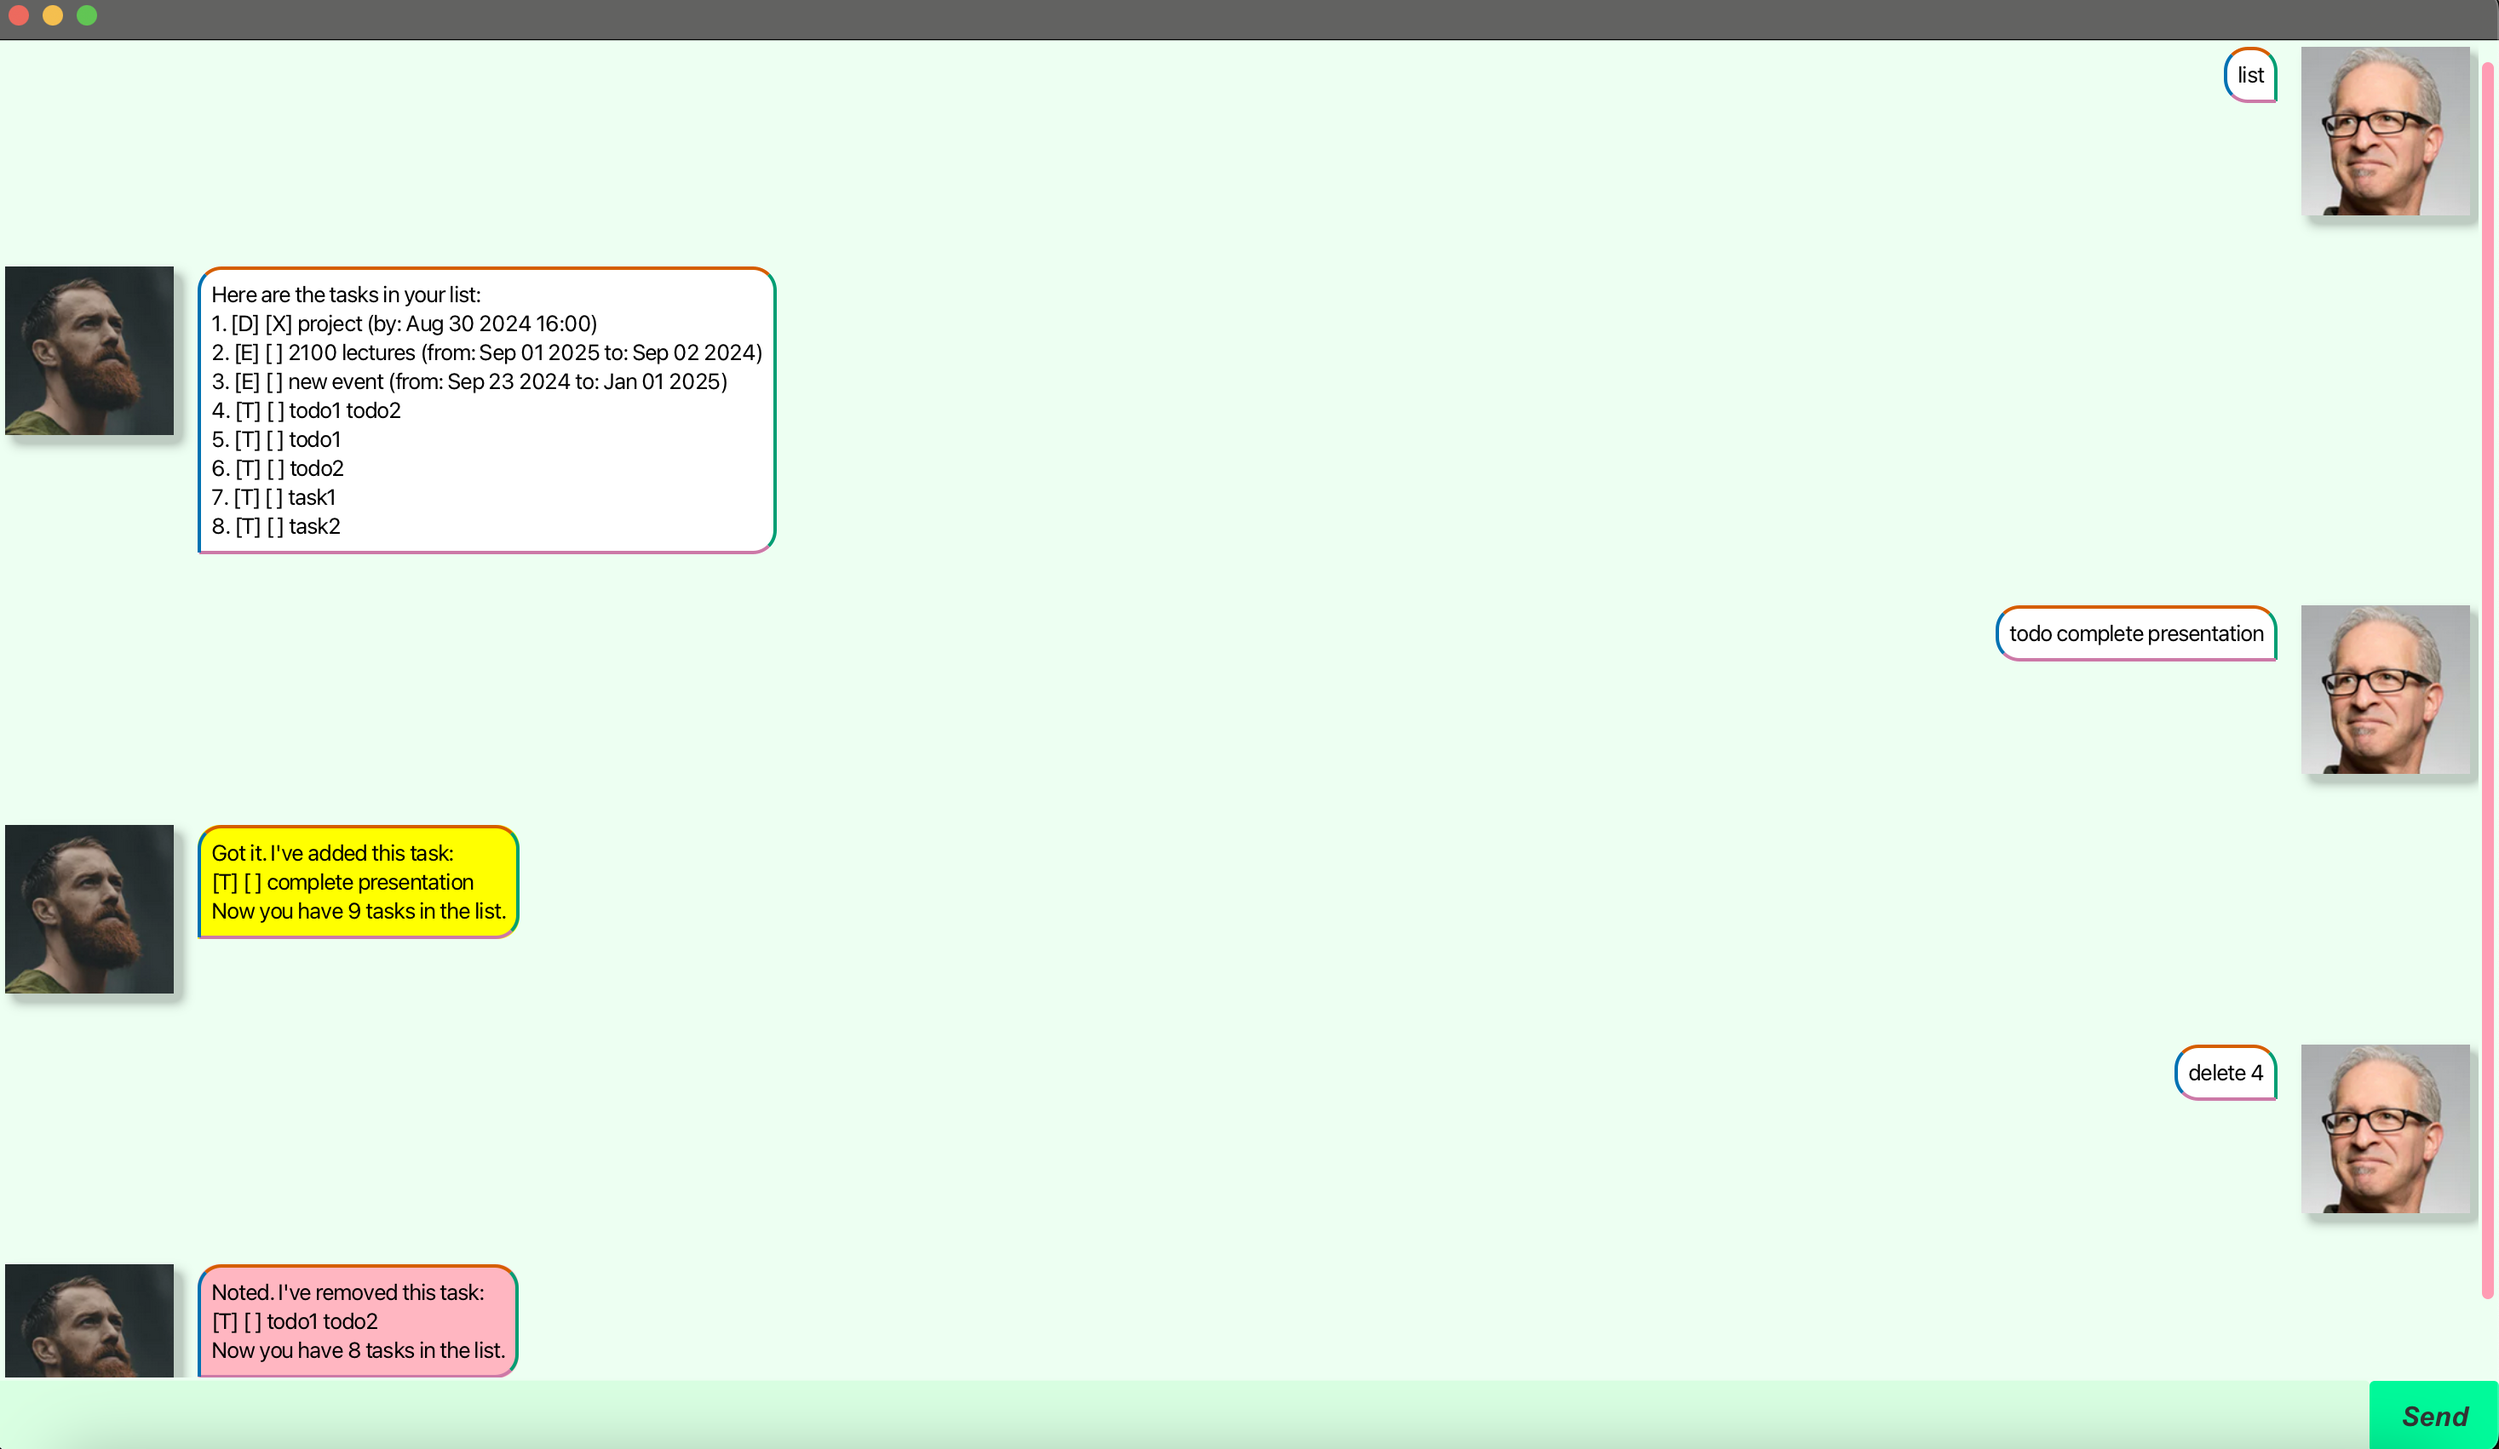
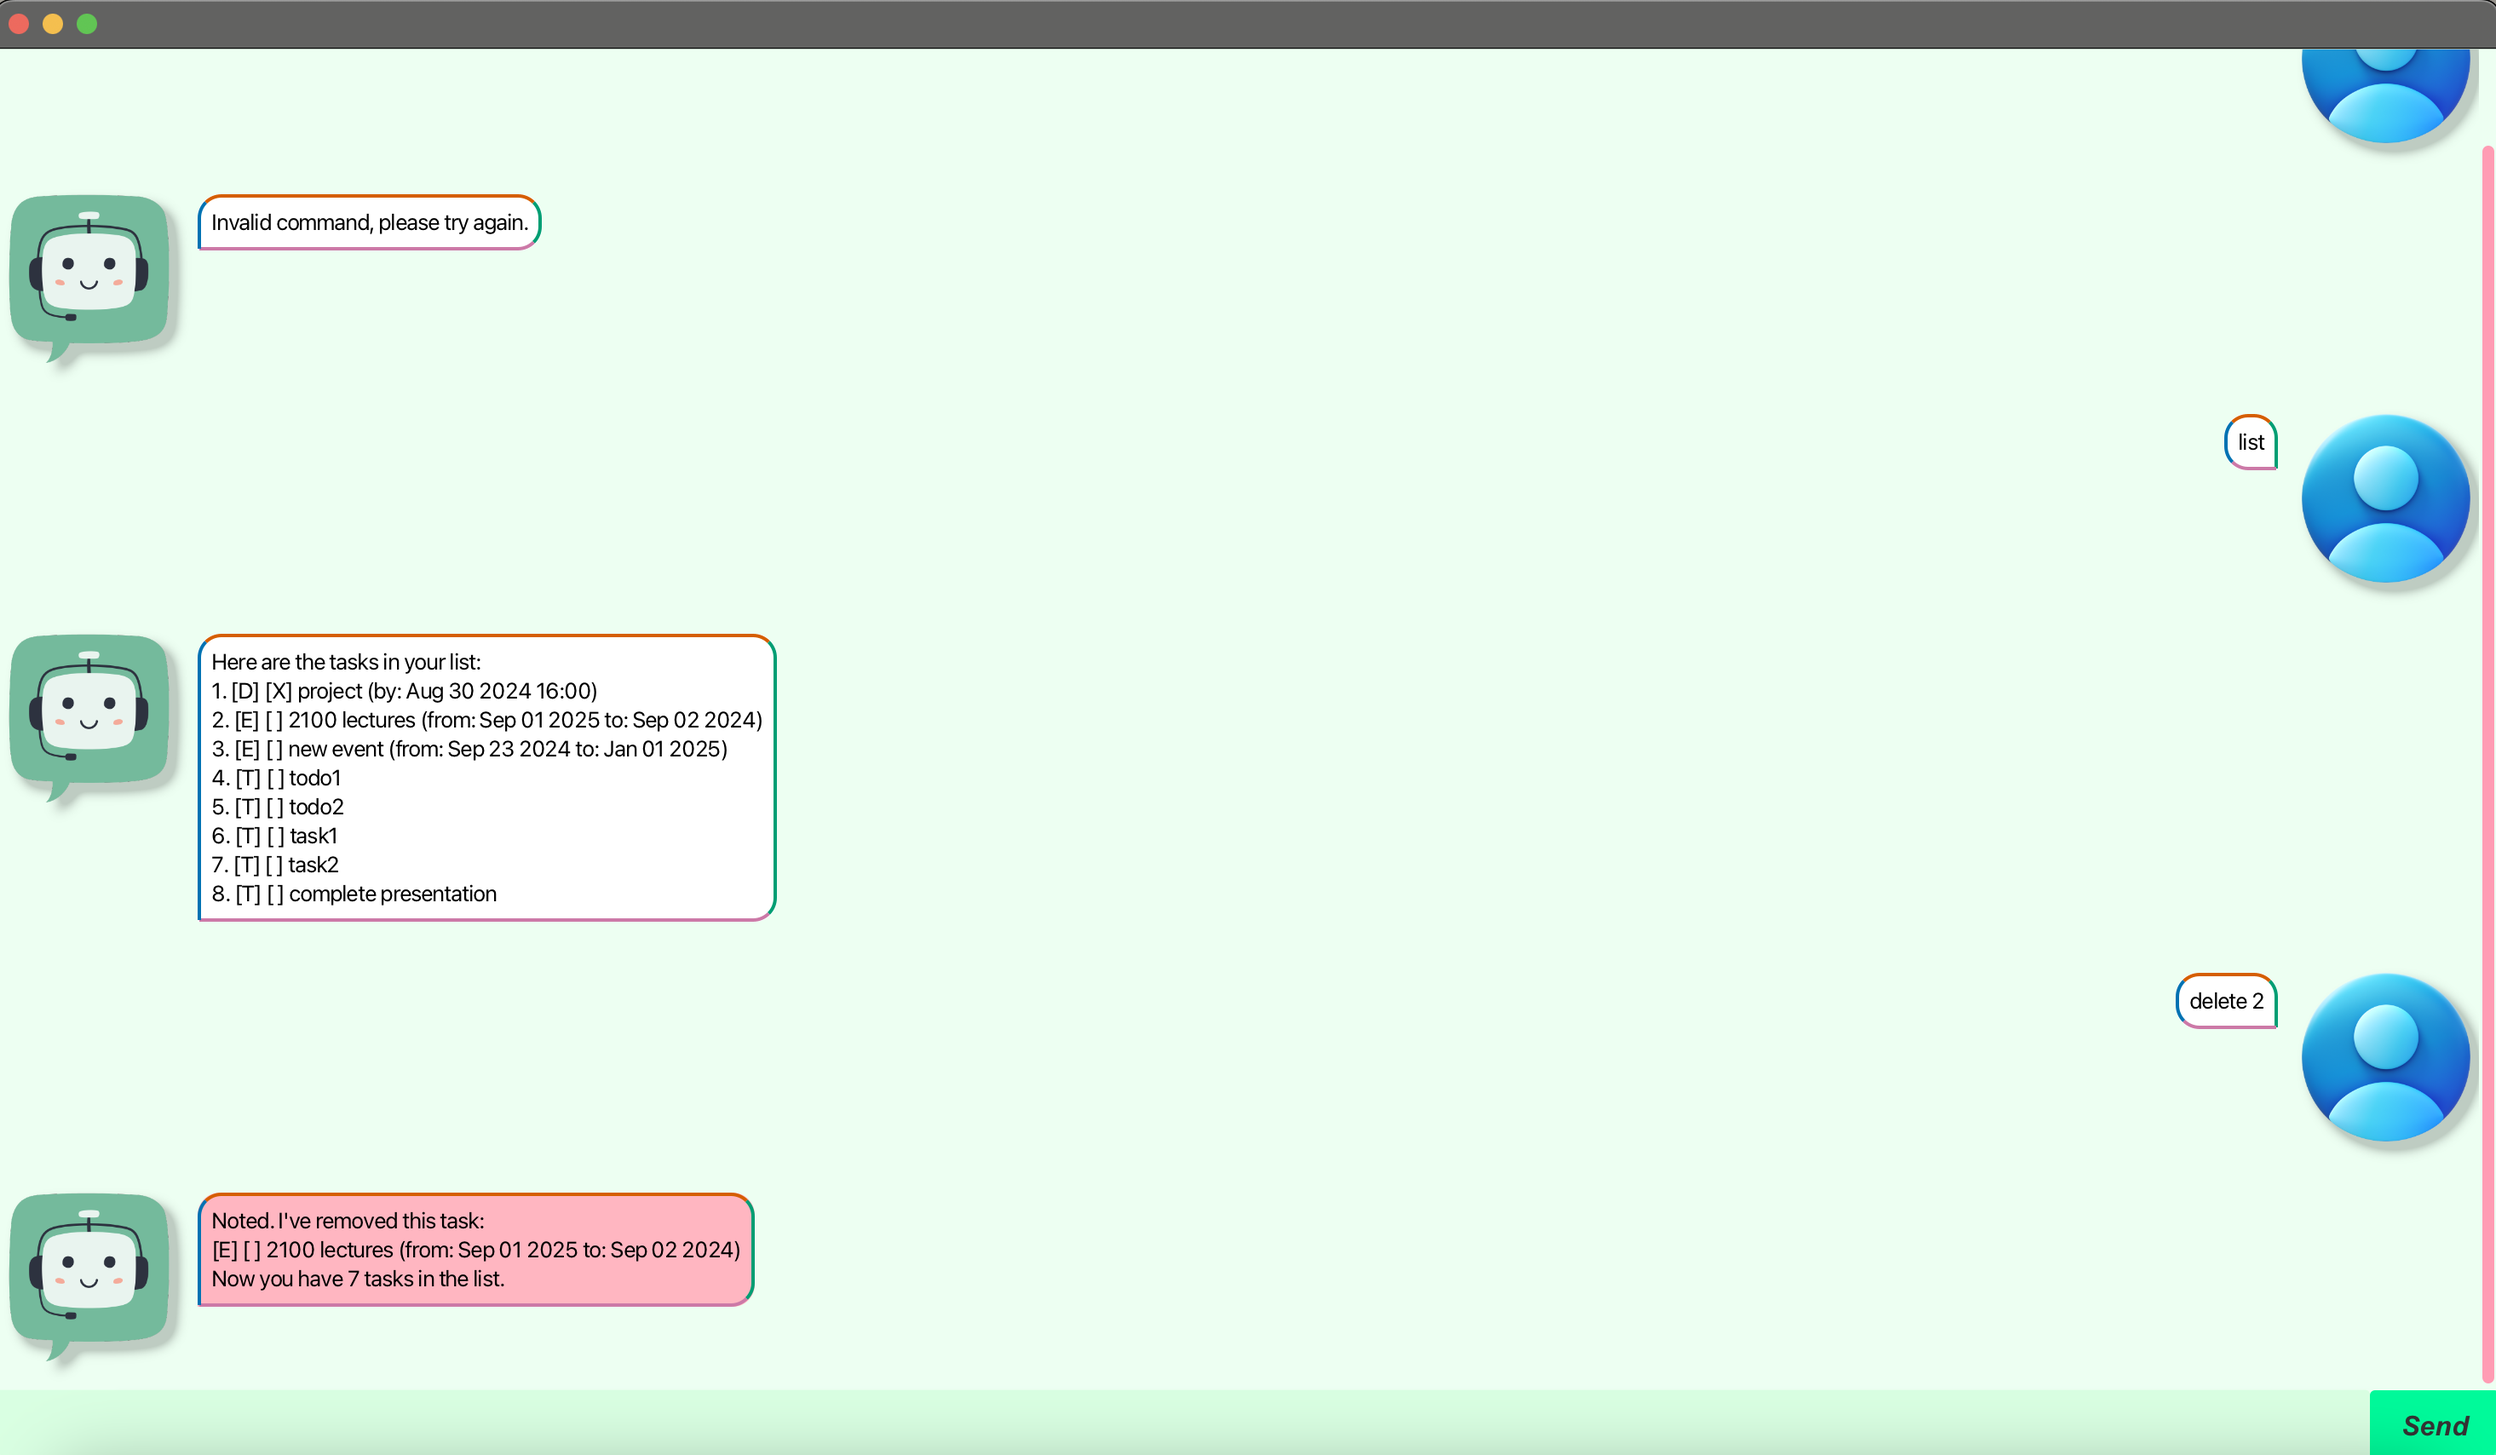
modify gui to make more engaging

diff --git a/src/main/java/schedulo/MainWindow.java b/src/main/java/schedulo/MainWindow.java
@@ -24,8 +24,8 @@ public class MainWindow extends AnchorPane {
 
     private Schedulo schedulo;
 
-    private Image userImage = new Image(this.getClass().getResourceAsStream("/images/DaUser.png"));
-    private Image scheduloImage = new Image(this.getClass().getResourceAsStream("/images/DaDuke.png"));
+    private Image userImage = new Image(this.getClass().getResourceAsStream("/images/user.png"));
+    private Image scheduloImage = new Image(this.getClass().getResourceAsStream("/images/chatbot.png"));
 
     @FXML
     public void initialize() {
